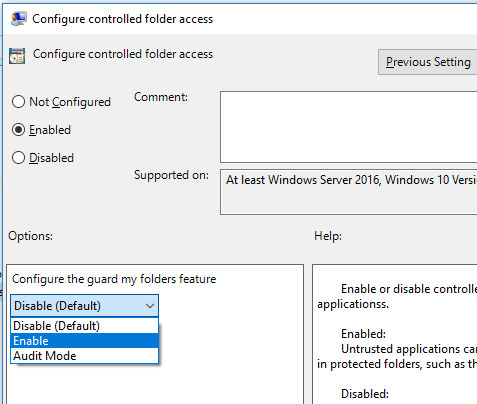
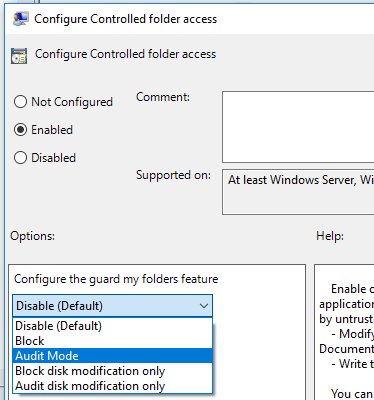
RS4 updates to CFA in EG, updated screenshot.

diff --git a/windows/security/threat-protection/windows-defender-exploit-guard/enable-controlled-folders-exploit-guard.md b/windows/security/threat-protection/windows-defender-exploit-guard/enable-controlled-folders-exploit-guard.md
@@ -9,9 +9,9 @@ ms.mktglfcycl: manage
 ms.sitesec: library
 ms.pagetype: security
 localizationpriority: medium
-author: iaanw
-ms.author: iawilt
-ms.date: 12/01/2017
+author: andreabichsel
+ms.author: v-anbic
+ms.date: 04/04/2018
 ---
 
 
@@ -40,12 +40,15 @@ ms.date: 12/01/2017
 
 Controlled folder access helps you protect valuable data from malicious apps and threats, such as ransomware. It is part of [Windows Defender Exploit Guard](windows-defender-exploit-guard.md).
 
-This topic describes how to enable Controlled folder access with the Windows Defender Security Center app, Group Policy, PowerShell, and mobile device management (MDM) configuration service providers (CSPs). 
+This topic describes how to enable Controlled folder access with the Windows Defender Security Center app, Group Policy, PowerShell, and mobile device management (MDM) configuration service providers (CSPs). You can choose to block, audit, or allow attempts by untrusted apps to:
+
+- Change or delete files in protected folders like the Documents folder
+- Write to the disk
 
 
 ## Enable and audit Controlled folder access
 
-You can enable Controlled folder access with the Windows Defender Security Center app, Group Policy, PowerShell, or MDM CSPs. You can also set the feature to audit mode. Audit mode allows you to test how the feature would work (and review events) without impacting the normal use of the machine.
+You can enable Controlled folder access with the Windows Defender Security Center app, Group Policy, PowerShell, or MDM CSPs. You can also set the feature to audit mode. Audit mode allows you to test how the feature would work (and review events) without impacting the normal use of the computer or device.
 
 For further details on how audit mode works, and when you might want to use it, see the [audit Windows Defender Exploit Guard topic](audit-windows-defender-exploit-guard.md).
 
@@ -72,21 +75,21 @@ For further details on how audit mode works, and when you might want to use it, 
 
 1.  On your Group Policy management machine, open the [Group Policy Management Console](https://technet.microsoft.com/library/cc731212.aspx), right-click the Group Policy Object you want to configure and click **Edit**.
 
-3.  In the **Group Policy Management Editor** go to **Computer configuration**.
-
-4.  Click **Policies** then **Administrative templates**.
+3.  In the **Group Policy Management Editor** go to **Computer configuration** and click **Administrative templates**.
 
 5.  Expand the tree to **Windows components > Windows Defender Antivirus > Windows Defender Exploit Guard > Controlled folder access**.
 
 6. Double-click the **Configure Controlled folder access** setting and set the option to **Enabled**. In the options section you must specify one of the following:
-    - **Enable** - Malicious and suspicious apps will not be allowed to make changes to files in protected folders. A notification will be provided in the Windows event log
-    - **Disable (Default)** - The Controlled folder access feature will not work. All apps can make changes to files in protected folders.
-    - **Audit Mode** - If a malicious or suspicious app attempts to make a change to a file in a protected folder, the change will be allowed but will be recorded in the Windows event log. This allows you to assess the impact of this feature on your organization.
+    - **Disable (Default)** - The Controlled folder access feature won't work. All apps can make changes to files in protected folders, and no notifications will appear in the Windows event log.
+    - **Block** - Malicious and suspicious apps won't be allowed to make changes to files in protected folders or write to disk. A notification will appear in the Windows event log with ID 1123.
+    - **Audit Mode** - If a malicious or suspicious app attempts to make a change to a file in a protected folder or write to disk, the change will be allowed but will be recorded in the Windows event log with ID 1124. This allows you to assess the impact of this feature on your organization before deploying it.
+    - **Block disk modification only** - Malicious and suspicious apps won't be allowed to write to disk. A notification will appear in the Windows event log with ID 1123.
+    - **Audit disk modification only** - If a malicious or suspicious app attempts to write to disk, the change will be allowed but will be recorded in the Windows event log with ID 1124. This allows you to assess the impact of this feature on your organization before deploying it.
 
     ![Screenshot of group policy option with Enabled and then Enable selected in the drop down](images/cfa-gp-enable.png)
 
 >[!IMPORTANT]
->To fully enable the Controlled folder access feature, you must set the Group Policy option to **Enabled** and also select **Enable** in the options drop-down menu.
+>To fully enable the Controlled folder access feature, you must set the Group Policy option to **Enabled** and also select **Block** in the options drop-down menu.
 
 ### Use PowerShell to enable Controlled folder access
 
@@ -97,7 +100,7 @@ For further details on how audit mode works, and when you might want to use it, 
     Set-MpPreference -EnableControlledFolderAccess Enabled
     ```
 
-You can enable the feauting in audit mode by specifying `AuditMode` instead of `Enabled`.
+You can enable the feature in audit mode by specifying `AuditMode` instead of `Enabled`. To block disk writes only, specify `BlockDiskModificationOnly`. To audit disk writes only, specify `AuditDiskModificationOnly`.
 
 Use `Disabled` to turn the feature off.
 
